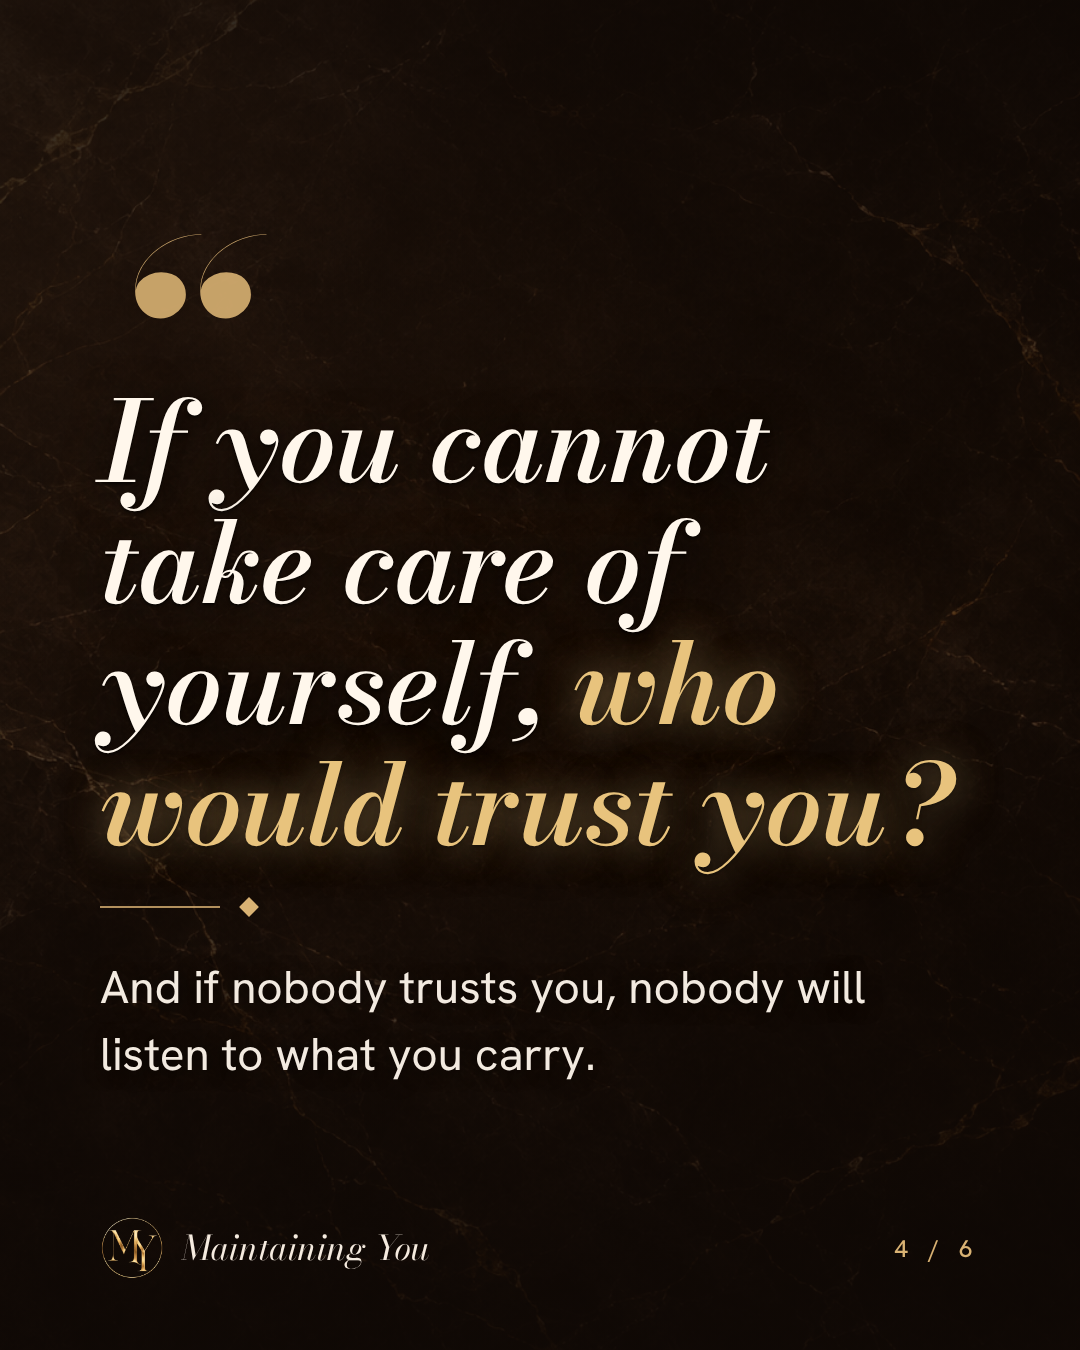
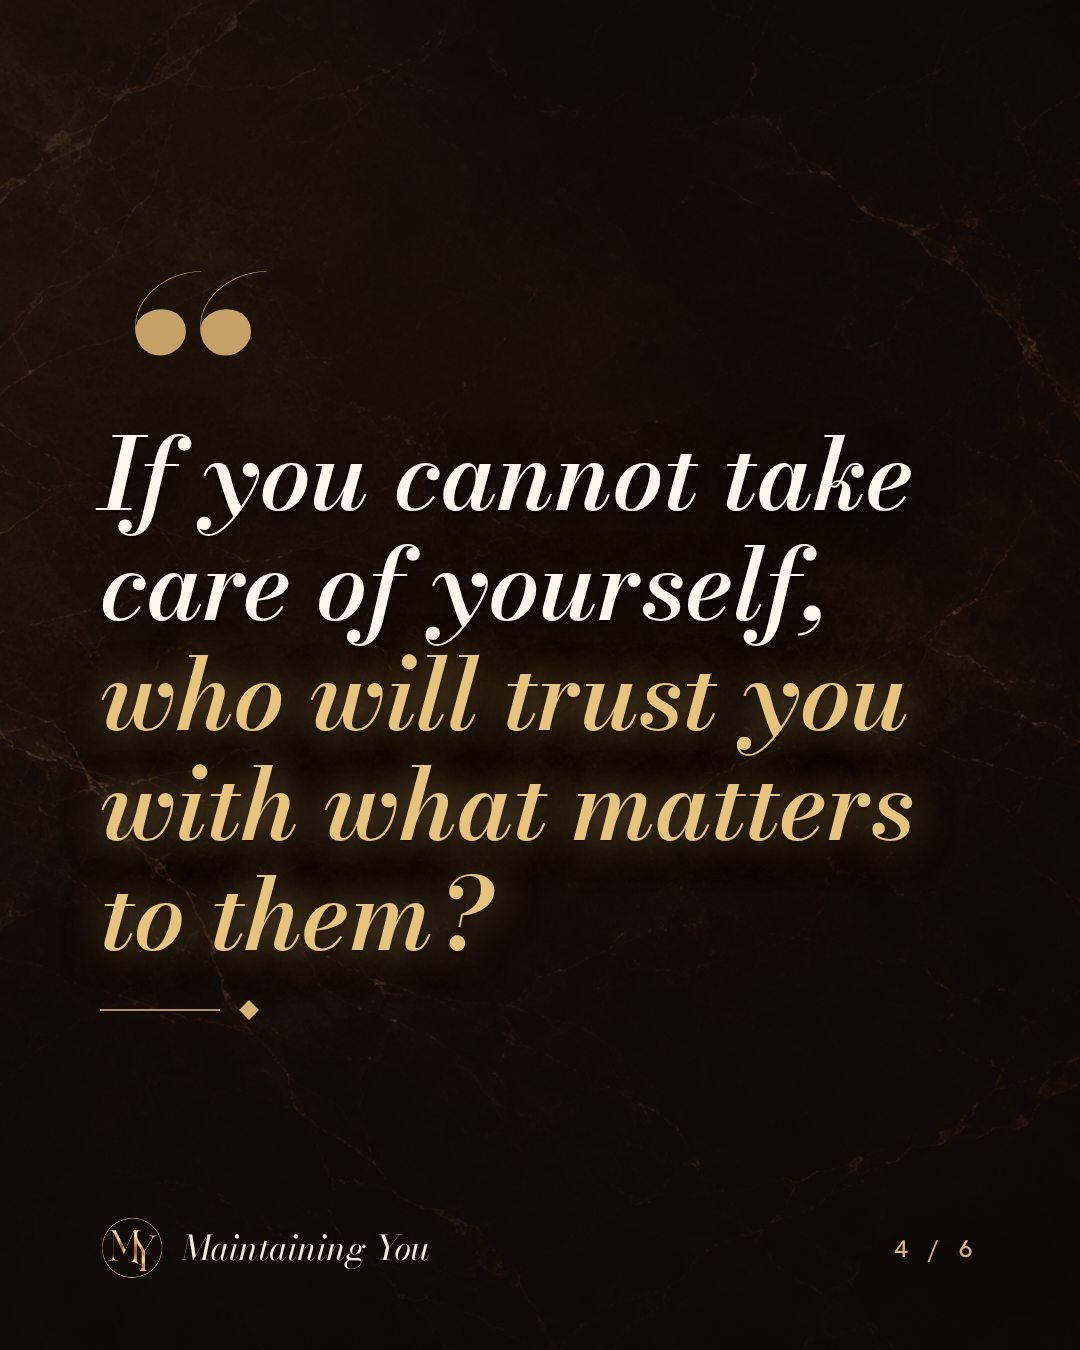
Social: slide 4 quote reworded
Claude-Session: https://claude.ai/code/session_01WfqKX1kSVTngYk4RzwcmpU

Changed region(s): [[0.0917, 0.1867, 0.8861, 0.8089]]

diff --git a/social/captions.md b/social/captions.md
@@ -32,7 +32,7 @@ I used to believe appearance doesn't matter as long as my heart is right. I dres
 
 Then I read my Bible again. Rebekah was beautiful, and she kept herself. Esther spent a whole year in beauty treatment before she stood before the king: six months with oil, six months with perfumes and creams. Same Bible. Same God.
 
-God does look at the heart. But people look at the outside first. If you cannot take care of yourself, who would trust you? And if nobody trusts you, nobody will listen to what you carry.
+God does look at the heart. But people look at the outside first. If you cannot take care of yourself, who will trust you with what matters to them?
 
 So I take care of myself. Not for my ego, but for my purpose. It is possible to love Jesus and still look attractive.
 
